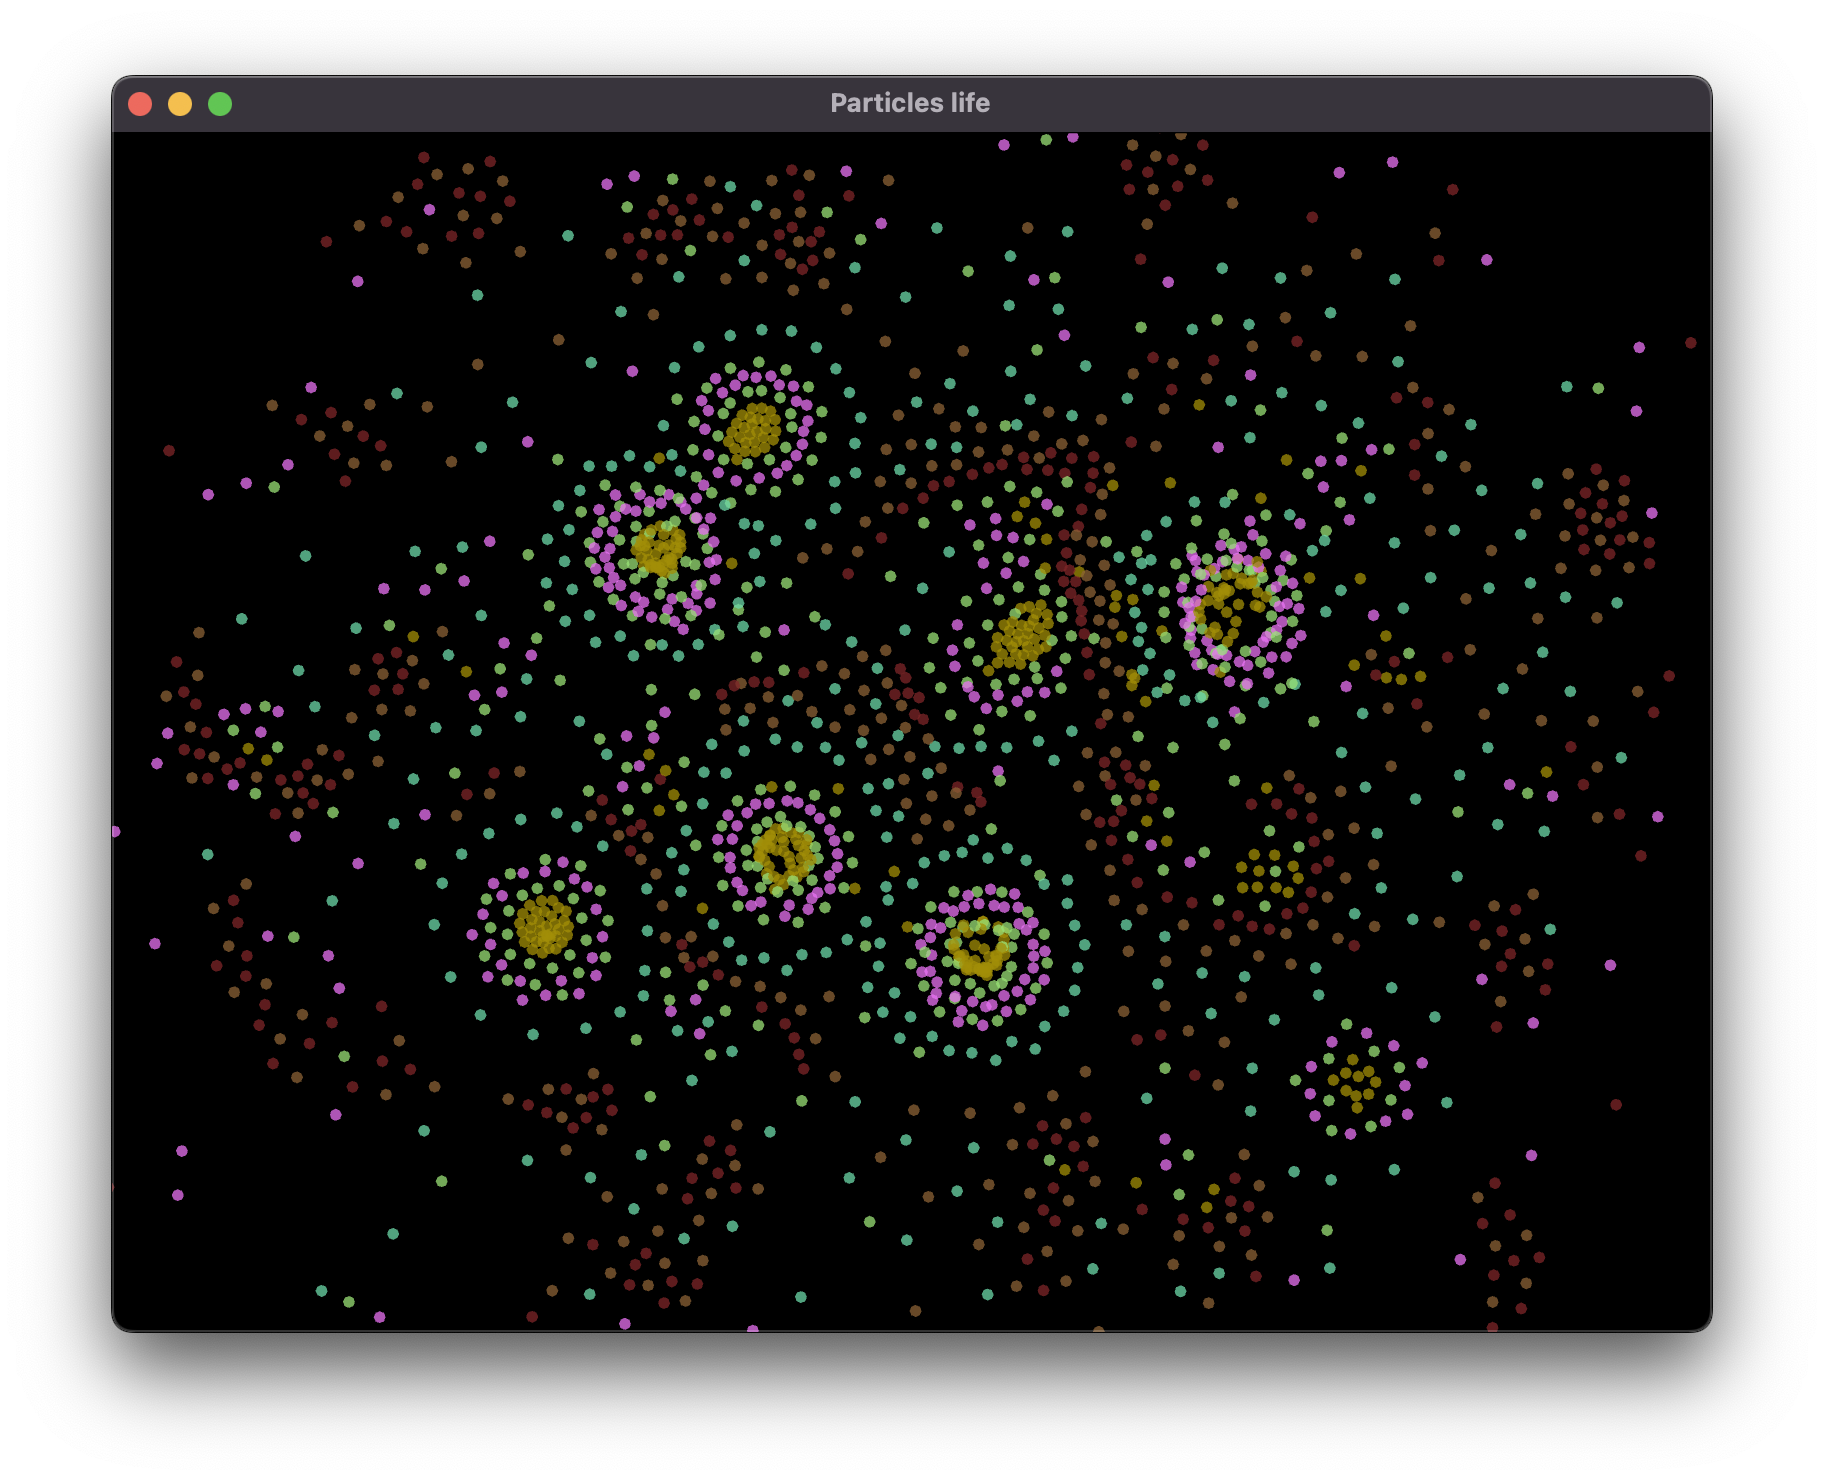
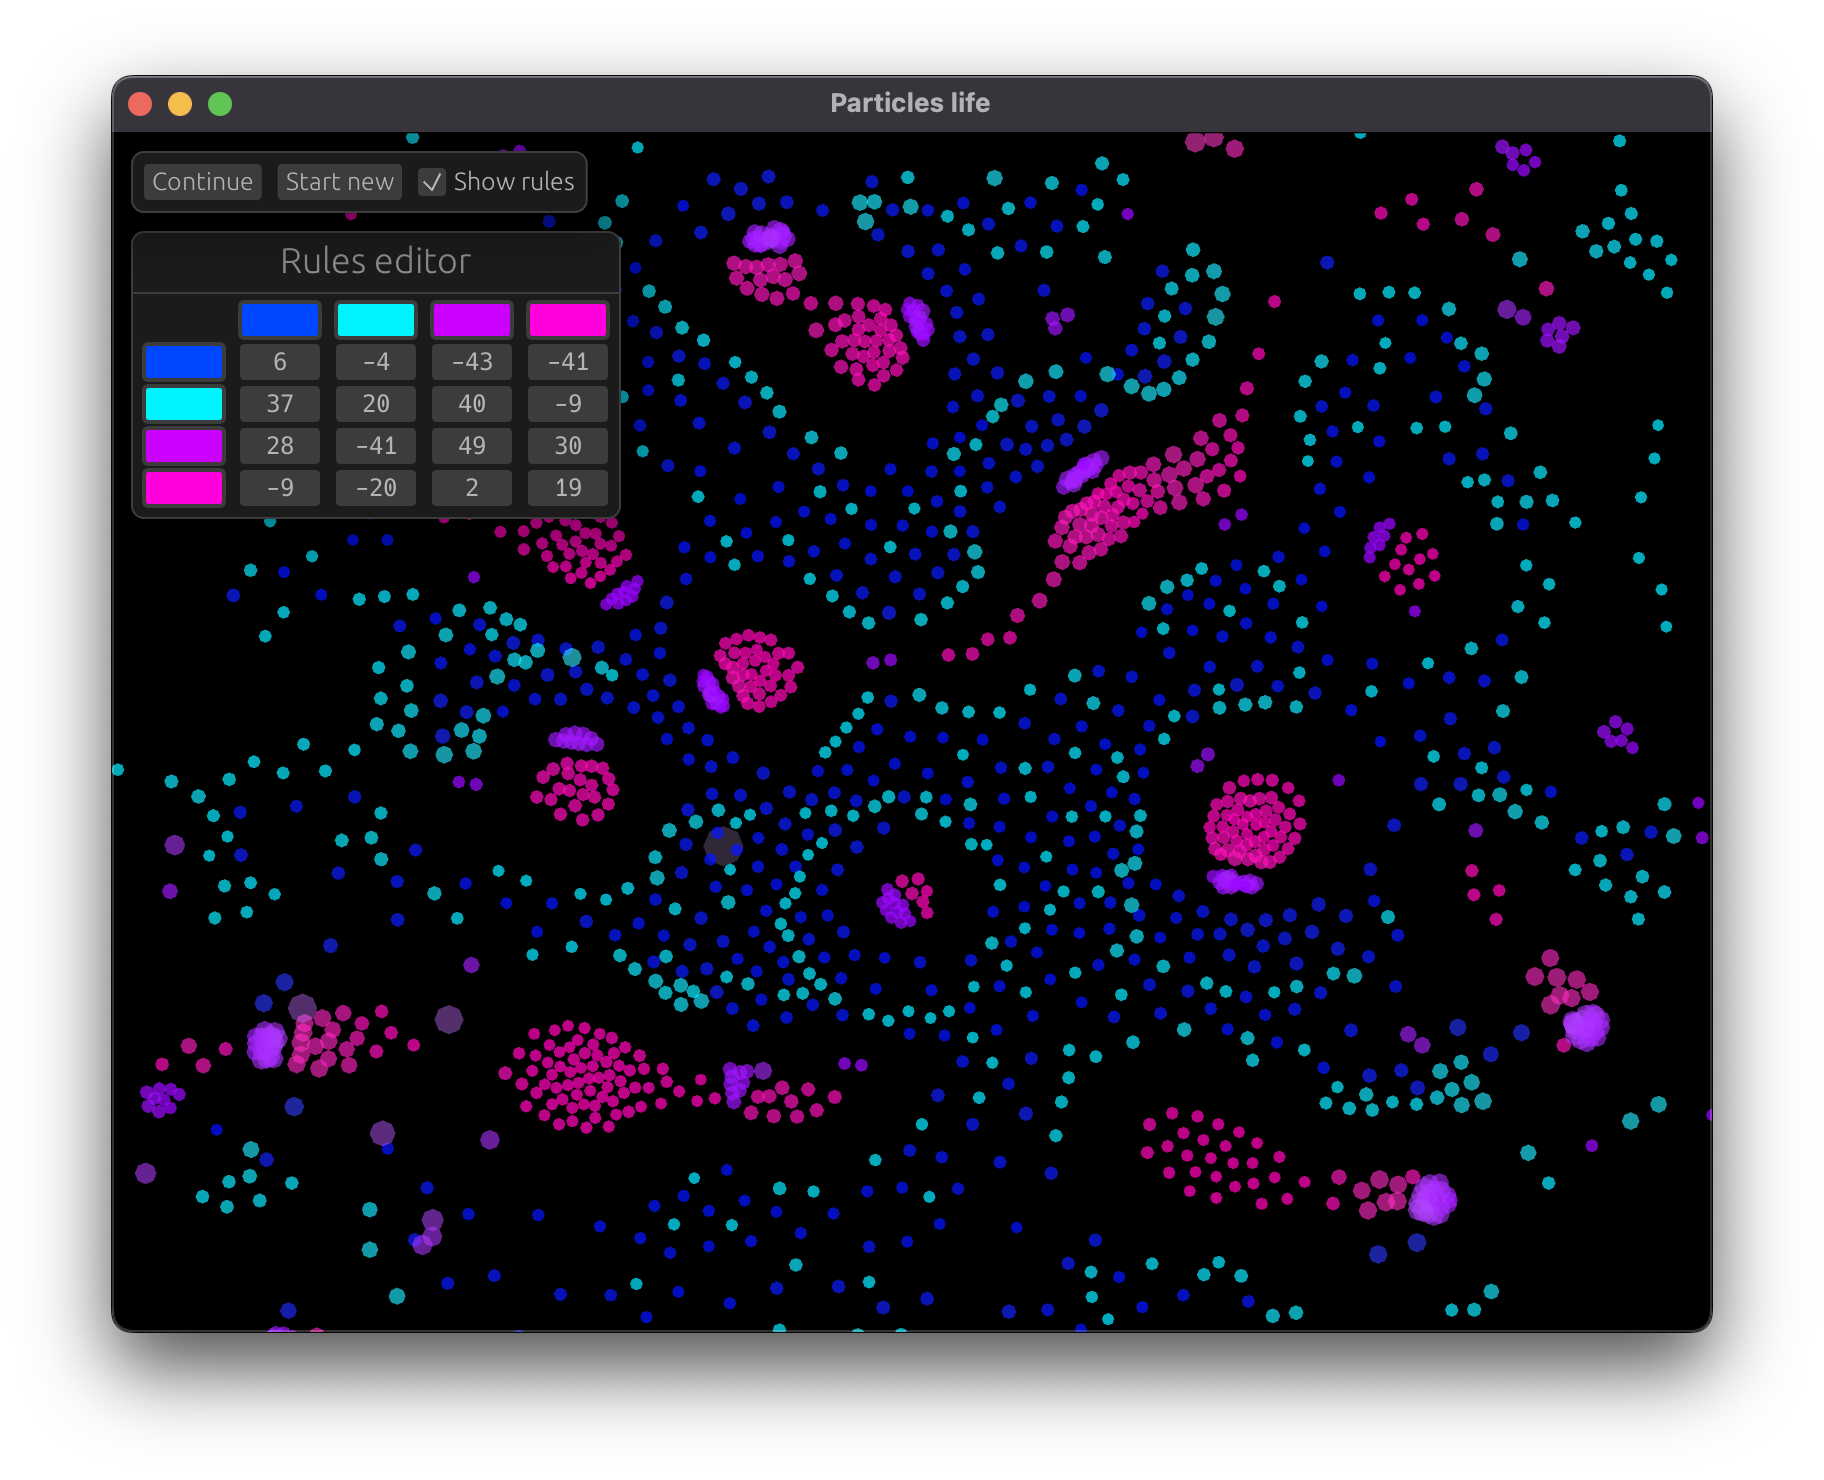
update readme

diff --git a/README.md b/README.md
@@ -1,3 +1,7 @@
 # Particles Life
 
+Particles of different colors attract or repel each other.
+
+Simple rules generate complex behavior.
+
 ![](/img/screenshot.png)
